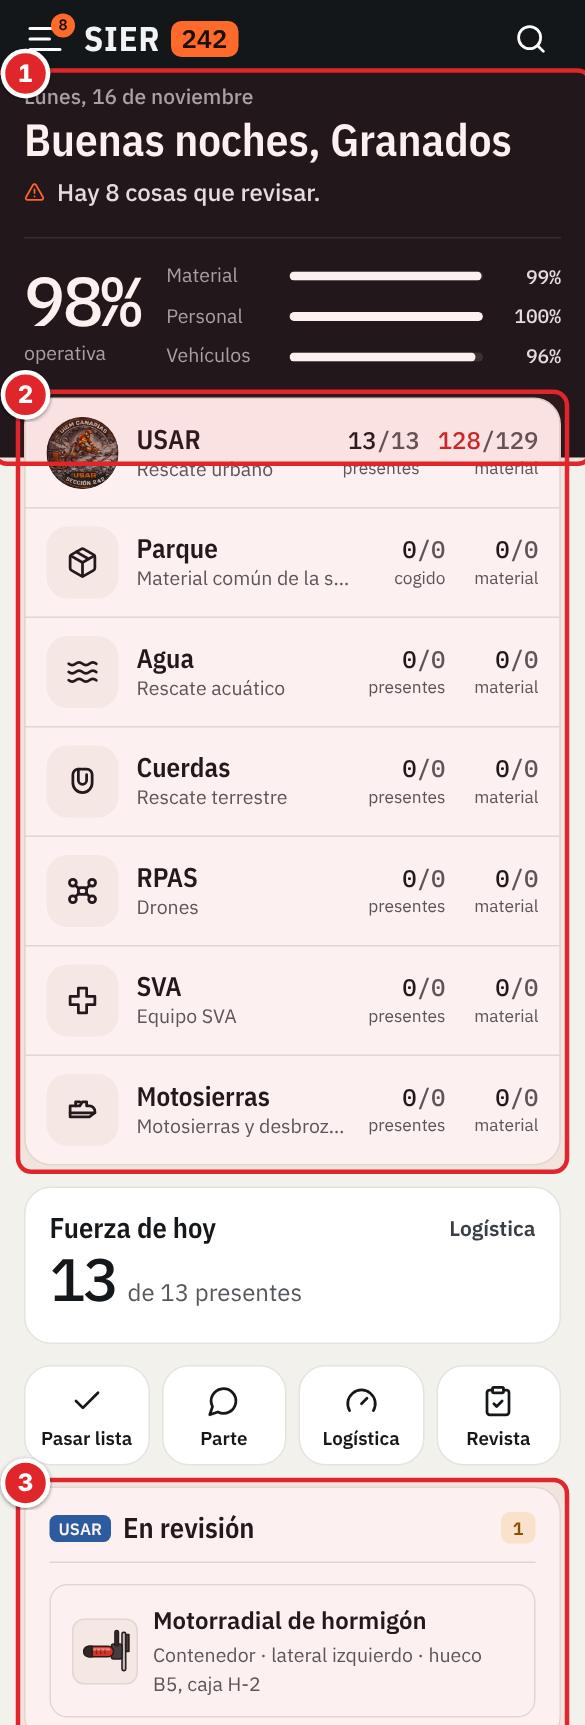
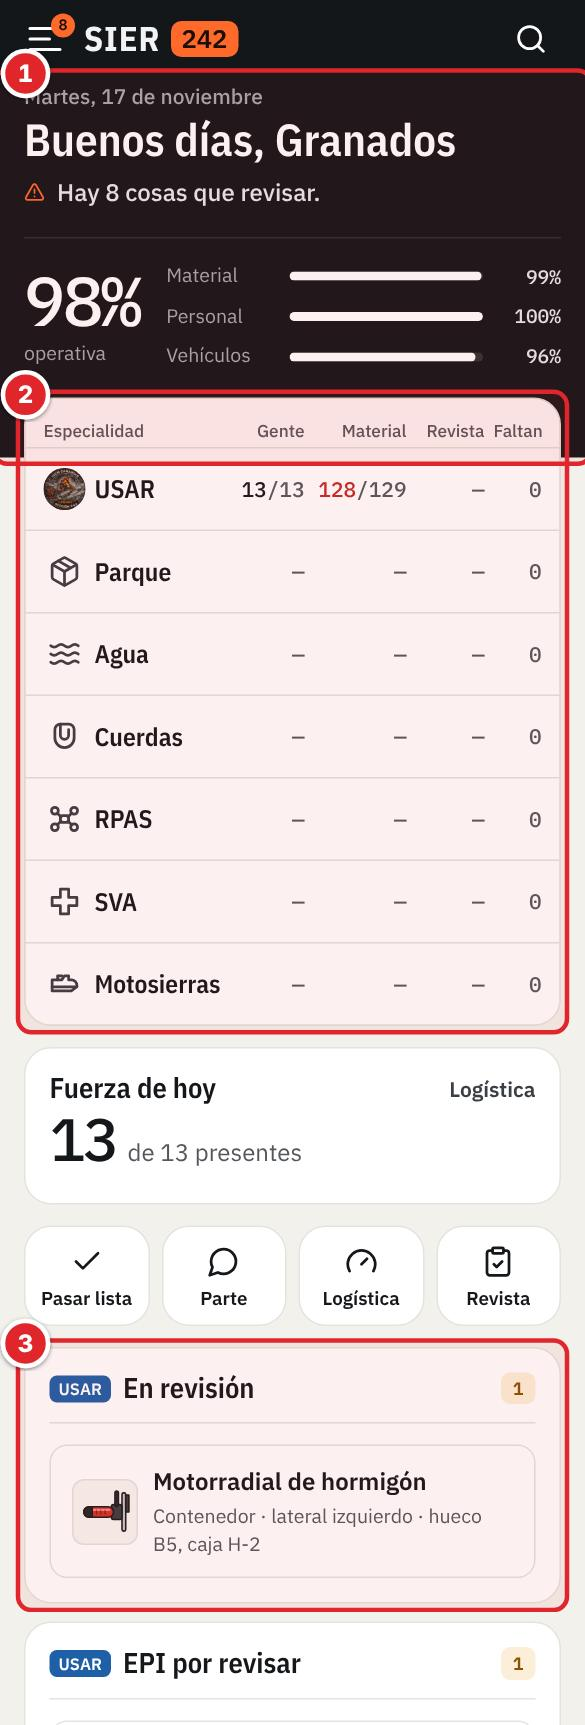
Ver cómo está todo de un vistazo: tabla de estado en Inicio, Logística por bloques y plano del Almacén
- Inicio: las tarjetas de especialidad pasan a ser una tabla, con una fila por especialidad y cuatro datos alineados
  (gente, material, revista y lo que falta). Solo lleva color lo que hay que atender.
- Logística: resumen arriba con cuatro cifras (Personal, Material, Vehículos y Pendiente) que llevan a su bloque, y los
  paneles agrupados bajo tres títulos: Personal, Vehículos y almacén, y Material. En pantalla ancha se reparten en
  columnas sin dejar huecos.
- Almacén: los botones de pasillo son ahora un plano, con cada pasillo, su dueño y una barra por estantería que dice
  lo llena que está.
- Manual, capturas, CLAUDE.md y pruebas. Caché v103.

Claude-Session: https://claude.ai/code/session_0118nn5FfTdWCTcZrqft7Q7P

diff --git a/js/views/manual.js b/js/views/manual.js
@@ -33,8 +33,8 @@ const MANUAL = [
         img: ['entrar', 'Entrar con tu nombre y PIN', [[1, 'Toca tu nombre y luego pon tu PIN.'], [2, 'Quien entraba con correo puede seguir haciéndolo.']]] },
       { h: 'Instalar y compartir', steps: [ 'Instálala como una app: en Android, menú del navegador (⋮) → «Instalar aplicación»; en iPhone, botón Compartir → «Añadir a pantalla de inicio».',
         'Los datos del equipo se comparten solos en cuanto entras.'] },
-      { h: 'La pantalla de Inicio', p: 'Es el cuadro de mando del día. Arriba, sobre fondo oscuro, la fecha, cuántas cosas hay que revisar y la operatividad de la sección (la media de material operativo, personal presente y vehículos sin fallos ni ITV caducada, con una barra para cada cosa). Debajo, una tarjeta por especialidad o equipo (USAR, Agua, Cuerdas, RPAS, SVA y Motosierras) con los presentes y el material operativo: tócala para entrar en su apartado. Después, la «Fuerza de hoy» (presentes por pelotón) con cuatro accesos (Pasar lista, Parte, Logística y Revista), los avisos, los vencimientos (los 5 más urgentes; con «Ver los…» o eligiendo un plazo —30 días, 3 meses, 1 año o todo— sale la lista entera) y lo próximo del calendario. Para todo lo demás, el menú de tres rayas.',
-        img: ['inicio', 'Inicio', [[1, 'Saludo, cuántas cosas hay que revisar y la operatividad de la unidad.'], [2, 'Una tarjeta por especialidad o equipo: presentes y material operativo. Tócala para entrar.'], [3, 'Avisos, por tipo. Toca uno para ir a su ficha.']]] },
+      { h: 'La pantalla de Inicio', p: 'Es el cuadro de mando del día. Arriba, sobre fondo oscuro, la fecha, cuántas cosas hay que revisar y la operatividad de la sección (la media de material operativo, personal presente y vehículos sin fallos ni ITV caducada, con una barra para cada cosa). Debajo, una tabla con una fila por especialidad o equipo (USAR, Parque, Agua, Cuerdas, RPAS, SVA y Motosierras) y cuatro datos: «Gente» (presentes del total), «Material» (operativo del total), «Revista» (cuándo fue la última, o «toca» si ya hay que pasarla) y «Faltan» (necesidades abiertas). Solo lleva color lo que hay que atender, así que de un vistazo se ve cómo está todo; toca una fila para entrar en su apartado. Después, la «Fuerza de hoy» (presentes por pelotón) con cuatro accesos (Pasar lista, Parte, Logística y Revista), los avisos, los vencimientos (los 5 más urgentes; con «Ver los…» o eligiendo un plazo —30 días, 3 meses, 1 año o todo— sale la lista entera) y lo próximo del calendario. Para todo lo demás, el menú de tres rayas.',
+        img: ['inicio', 'Inicio', [[1, 'Saludo, cuántas cosas hay que revisar y la operatividad de la unidad.'], [2, 'Una fila por especialidad: gente, material, revista y lo que falta. Tócala para entrar.'], [3, 'Avisos, por tipo. Toca uno para ir a su ficha.']]] },
       { h: 'Avisos', p: 'En Inicio salen los avisos: equipos averiados o en revisión, material con novedad, mantenimientos y caducidades de los próximos 30 días, stock por debajo del mínimo, material fuera del contenedor y documentos de las personas. Toca cualquiera para ir a su ficha.' }
     ],
     example: 'Llegas al parque: entras como GRANADOS y en Inicio ves que la sierra de hormigón está en revisión y que el pasaporte de DORTA caduca en 4 meses.',
@@ -151,9 +151,9 @@ const MANUAL = [
     tips: ['Los vehículos y su material los rellena cualquiera del equipo.', 'El material de un vehículo tiene lo mismo que el de un apartado: foto, caducidad, historial, etiquetas QR, inventario para imprimir o para Excel y aviso para pasar revista (ver «Apartados»).', 'Si un modelo deja de usarse, ábrelo → «Editar modelo y matrículas» → «Eliminar».'] },
 
   { id: 'logistica', area: 'log', icon: 'gauge', title: 'Logística: lo disponible de personal, vehículos y material', go: 'recursos',
-    what: 'Una sola pantalla para saber con qué se cuenta: cuánta gente hay presente (hoy o el día que elijas), por pelotón y por capacidad, qué matrículas están disponibles y cómo está el material. Cada línea lleva a su sitio.',
+    what: 'Una sola pantalla para saber con qué se cuenta: cuánta gente hay presente (hoy o el día que elijas), por pelotón y por capacidad, qué matrículas están disponibles y cómo está el material. Arriba, un resumen con cuatro cifras (Personal, Material, Vehículos y Pendiente): toca una para bajar a su bloque. Debajo, los paneles van agrupados en tres bloques con su título: Personal, Vehículos y almacén, y Material. Cada línea lleva a su sitio.',
     parts: [
-      { h: 'Personal y capacidades', p: '«Personal» dice cuántos hay presentes del total, con una barra por pelotón (en ámbar si falta gente y en rojo si falta más de un cuarto) y la lista de ausentes con su motivo y hasta cuándo. «Capacidades» cuenta los presentes de cada especialidad (USAR, Res. Terrestre, Res. Acuático) y de cada equipo (RPAS, SVA y motosierristas titulares, con los suplentes disponibles). Toca una barra para abrir su apartado.',
+      { h: 'Personal y capacidades', p: '«Presentes» dice cuántos hay del total, con una barra por pelotón (en ámbar si falta gente y en rojo si falta más de un cuarto) y la lista de ausentes con su motivo y hasta cuándo. «Capacidades» cuenta los presentes de cada especialidad (USAR, Res. Terrestre, Res. Acuático) y de cada equipo (RPAS, SVA y motosierristas titulares, con los suplentes disponibles). Toca una barra para abrir su apartado.',
         img: ['logistica', 'Logística', [[1, 'Elegir otro día para ver con quién se contará.'], [2, 'Presentes del total y por pelotón.'], [3, 'Pasar lista y enviar el parte.']]] },
       { h: 'Ver otro día', steps: ['Arriba, en «Ver el día», elige una fecha futura.', 'Personal y Capacidades se calculan para ese día con las ausencias apuntadas (las que ya han empezado y las previstas).', '«Próximos cambios» lista quién vuelve en los próximos días, las ausencias previstas (vacaciones, permisos, cursos…) y, si se han puesto mínimos, los días en que una especialidad se queda por debajo. «Hoy» vuelve al día de hoy.'] },
       { h: 'Pasar lista', steps: ['«Pasar lista» (también en Inicio): sale toda la sección por pelotones.', 'Elige arriba el motivo y toca a quien falte: su ficha se pone en rojo. Tócalo otra vez y vuelve a estar presente.', 'Arriba se ve la cuenta de presentes; «Enviar el parte» lo manda por WhatsApp.'] },
@@ -166,8 +166,8 @@ const MANUAL = [
   { id: 'almacen-pasillos', area: 'log', icon: 'layers', title: 'Almacén: todos los pasillos y mover material', go: 'almacen',
     what: 'Menú → Almacén reúne todos los pasillos: el Parque (1 y 2), USAR (3), Agua (4), Cuerdas (5) y Motosierras (6), cada uno con su estantería a izquierda y derecha. En cada hueco se ve lo que hay, sea de quien sea: el material de un apartado lleva su icono, y lo de USAR, su dibujo o su caja. Cualquier cosa se puede llevar a cualquier sitio: a otro hueco, a otro pasillo, al contenedor, a un armario o a un vehículo.',
     parts: [
-      { h: 'Ver un pasillo', steps: ['Arriba, un botón por pasillo con su número, de quién es y cuántas cosas tiene; debajo, «Izquierda» y «Derecha».', 'Toca un hueco: sale lo que hay, con «Mover» en cada cosa, «Material aquí» para añadir (si el pasillo es de varios, pregunta de quién es) y, debajo, lo que está sin colocar para traerlo con un toque.', '«Módulos y baldas» cambia lo que mide el lado que estás viendo; «De quién es cada pasillo», qué especialidad hay en cada uno.'],
-        img: ['almacen', 'El Almacén', [[1, 'Un botón por pasillo, con su dueño.'], [2, 'Lado izquierdo o derecho.'], [3, 'La estantería: toca un hueco o arrastra lo que hay en él.']]] },
+      { h: 'Ver un pasillo', steps: ['Arriba, el plano del almacén: un recuadro por pasillo con su número, de quién es y cuántas cosas tiene, y a cada lado una barra que dice lo llena que está esa estantería. Tócalo para verlo; debajo, «Izquierda» y «Derecha».', 'Toca un hueco: sale lo que hay, con «Mover» en cada cosa, «Material aquí» para añadir (si el pasillo es de varios, pregunta de quién es) y, debajo, lo que está sin colocar para traerlo con un toque.', '«Módulos y baldas» cambia lo que mide el lado que estás viendo; «De quién es cada pasillo», qué especialidad hay en cada uno.'],
+        img: ['almacen', 'El Almacén', [[1, 'El plano: cada pasillo con su dueño y lo llenas que están sus dos estanterías.'], [2, 'Lado izquierdo o derecho.'], [3, 'La estantería: toca un hueco o arrastra lo que hay en él.']]] },
       { h: 'Arrastrar', steps: ['Mantén pulsado un material (con el ratón, arrástralo sin más) y llévalo a otro hueco.', 'Para pasarlo a otro pasillo o al otro lado, déjalo un momento encima de su botón: el dibujo cambia y lo sueltas allí.', 'Abajo sale una barra para dejarlo «Sin colocar» o dárselo a una persona.', 'Al soltar, el hueco de destino se ilumina y sale el aviso con «Deshacer».'] },
       { h: 'Mover sin arrastrar', p: 'En la ficha de cualquier material, equipo o caja, «Mover» abre una ventana con cuatro destinos: Pasillo (eliges pasillo y lado y tocas el hueco en el dibujo), Contenedor (los huecos B1 a B20), Vehículo y Armarios. Arriba dice dónde está ahora. Sirve igual para lo de USAR que para lo de un apartado o lo de un vehículo.',
         img: ['mover', 'Mover un material', [[1, 'Dónde está ahora.'], [2, 'A dónde: pasillo, contenedor, vehículo o armarios.'], [3, 'Toca el hueco donde lo dejas.']]] },

diff --git a/styles.css b/styles.css
@@ -2140,20 +2140,6 @@ body.mision .mlayout > .tabs .tab .n { background: rgba(255, 255, 255, .14); col
 body { transition: none; }
 
 /* ---------- Inicio: una tarjeta por especialidad o equipo ---------- */
-.esp-tiles { display: grid; gap: 1px; background: var(--line); border: 1px solid var(--line); border-radius: var(--r); overflow: hidden; }
-@media (min-width: 900px) { .esp-tiles { grid-template-columns: repeat(2, 1fr); } }
-@media (min-width: 1440px) { .esp-tiles { grid-template-columns: repeat(3, 1fr); } }
-.esp-tile { display: grid; grid-template-columns: 48px minmax(0, 1fr) auto auto; gap: 12px; align-items: center; padding: 12px 14px; min-height: 72px; text-align: left; background: var(--surface); }
-@media (hover: hover) and (pointer: fine) { .esp-tile:hover { background: var(--sunk); } }
-.esp-art { width: 48px; height: 48px; border-radius: 14px; display: grid; place-items: center; background: var(--sunk); color: var(--ink); object-fit: cover; }
-img.esp-art { border-radius: 50%; background: var(--frame); }
-.esp-t b { display: block; font: 600 18px/1.2 var(--cond); }
-.esp-t small { color: var(--muted); overflow: hidden; text-overflow: ellipsis; white-space: nowrap; }
-.esp-n { text-align: right; min-width: 50px; }
-.esp-n b { display: block; font: 500 16px/1.3 var(--num); }
-.esp-n b i { font-style: normal; color: var(--muted); }
-.esp-n small { font-size: 11.5px; color: var(--muted); }
-.esp-n.bad b { color: var(--bad); }
 .veh-mat { margin-top: 16px; padding-top: 14px; border-top: 1px solid var(--line); }
 .veh-mat .sec-head { border-bottom: 0; padding-bottom: 0; margin-bottom: 10px; }
 /* Textos largos (empleo, motivo de ausencia, pelotón): se cortan con puntos suspensivos en vez de ensanchar la página */
@@ -2329,6 +2315,55 @@ p, small, .muted { text-wrap: pretty; }
 .empty-i { width: auto; height: auto; background: none; border: 0; border-radius: 0; margin-bottom: 2px; color: var(--muted); }
 .empty-i svg { width: 22px; height: 22px; }
 /* Inicio: si el número de apartados es impar en dos columnas, el último ocupa la fila entera (sin casilla huérfana) */
-@media (min-width: 900px) { .esp-tiles > :last-child:nth-child(odd) { grid-column: 1 / -1; } }
 .alm-tools .alm-alpas { margin-right: auto; }
 @media (prefers-reduced-motion: reduce) { .ctab.on.slide::after, .seg-row button.on.slide::before, .cell-flash { animation: none !important; } }
+
+/* ==================== ORGANIZACIÓN: ver cómo está todo de un vistazo ==================== */
+/* Inicio: tabla de estado, una fila por especialidad y cuatro datos alineados (gente, material, revista y lo que falta) */
+.esp-tiles { display: grid; gap: 1px; background: var(--line); border: 1px solid var(--line); border-radius: var(--r); overflow: hidden; }
+.esp-head, .esp-tile { display: grid; grid-template-columns: 28px minmax(0, 1fr) 46px 62px 46px 32px; gap: 6px; align-items: center; padding: 0 12px; background: var(--surface); }
+.esp-head { min-height: 32px; font-size: 11.5px; font-weight: 500; color: var(--muted); }
+.esp-head span { text-align: right; white-space: nowrap; } .esp-head .esp-h-n { text-align: left; grid-column: 1 / 3; }
+.esp-tile { min-height: 54px; text-align: left; width: 100%; }
+.esp-art { width: 28px; height: 28px; border-radius: 8px; display: grid; place-items: center; background: none; color: var(--ic); object-fit: cover; }
+.esp-art svg { width: 22px; height: 22px; }
+img.esp-art { border-radius: 50%; background: var(--frame); }
+.esp-t { min-width: 0; display: flex; align-items: baseline; gap: 8px; }
+.esp-t b { font: 600 17px/1.2 var(--cond); white-space: nowrap; overflow: hidden; text-overflow: ellipsis; }
+.esp-t small { display: none; color: var(--muted); font-size: 13px; overflow: hidden; text-overflow: ellipsis; white-space: nowrap; min-width: 0; }
+.esp-c { text-align: right; font: 500 14px var(--num); white-space: nowrap; font-variant-numeric: tabular-nums; color: var(--ink); }
+.esp-c i { font-style: normal; color: var(--muted); }
+.esp-c.bad { color: var(--bad); } .esp-c.warn { color: var(--warn); font-weight: 600; } .esp-c.nada { color: var(--muted); }
+.esp-c.txt { font: 600 13px var(--sans); }
+@media (min-width: 700px) {
+  .esp-head, .esp-tile { grid-template-columns: 34px minmax(0, 1fr) 84px 96px 84px 64px; gap: 12px; padding: 0 16px; }
+  .esp-art { width: 34px; height: 34px; } .esp-t small { display: block; } .esp-c { font-size: 15px; } .esp-head { font-size: 12.5px; }
+}
+/* Logística: resumen arriba (lleva a cada bloque) y los paneles agrupados bajo su título */
+.log-res { grid-template-columns: repeat(4, 1fr); margin-top: 14px; }
+.log-res .sier-kpi { text-align: left; background: var(--surface); min-width: 0; transition: background-color var(--t-hover) ease; }
+.log-res .sier-kpi b { font: 500 24px/1.1 var(--num); letter-spacing: -.5px; white-space: nowrap; }
+.log-res .sier-kpi small { font-weight: 500; }
+@media (hover: hover) and (pointer: fine) { .log-res .sier-kpi:hover { background: var(--sunk); } }
+@media (max-width: 479px) { .log-res { grid-template-columns: repeat(2, 1fr); } .log-res .sier-kpi:nth-child(3) { border-left: 0; } .log-res .sier-kpi:nth-child(n+3) { border-top: 1px solid var(--line); } }
+.log-sec { scroll-margin-top: calc(var(--top-h, 67px) + 10px); margin-top: 22px; }
+.log-sec-t { display: flex; align-items: baseline; gap: 10px; flex-wrap: wrap; margin: 0 4px 10px; }
+.log-sec-t h2 { font: 600 21px/1.2 var(--cond); }
+.log-sec-t p { font-size: 13.5px; }
+/* En pantalla ancha los paneles de cada bloque se reparten en columnas, uno debajo de otro, sin dejar huecos */
+@media (min-width: 900px) { .log-sec .log-grid { display: block; columns: 2; column-gap: 14px; } .log-sec .log-grid > .panel { break-inside: avoid; margin: 0 0 14px; } }
+@media (min-width: 1500px) { .log-sec .log-grid { columns: 3; } }
+/* Almacén: plano de los pasillos. Cada uno, con su estantería a izquierda y derecha, llena hasta donde esté ocupada */
+.plano { display: grid; grid-template-columns: repeat(auto-fill, minmax(96px, 1fr)); gap: 8px; margin-bottom: 12px; }
+.plano .plano-p { display: grid; grid-template-columns: 6px minmax(0, 1fr) 6px; gap: 5px; align-items: stretch; min-height: 78px; padding: 7px; border-radius: 12px; text-align: center; }
+.plano-e { position: relative; border-radius: 3px; background: var(--sunk); box-shadow: inset 0 0 0 1px var(--line); overflow: hidden; }
+.plano-e i { position: absolute; left: 0; right: 0; bottom: 0; background: #2b5ea8; border-radius: 3px; min-height: 0; }
+.plano-c { display: grid; align-content: center; justify-items: center; gap: 1px; min-width: 0; }
+.plano-c b { font: 500 24px/1 var(--num); }
+.plano-c small { font-size: 11.5px; font-weight: 500; line-height: 1.2; overflow-wrap: anywhere; color: var(--muted); }
+.plano-c .muted { font: 500 11.5px var(--num); }
+.plano .chip.on .plano-c small, .plano .chip.on .plano-c .muted { color: inherit; }
+.plano .chip.on .plano-e { background: rgba(255, 255, 255, .14); box-shadow: none; }
+.plano .chip.on .plano-e i { background: var(--yellow); }
+.motion #view.enter .plano-e i { transform-origin: bottom center; animation: plano-sube .8s var(--ease) .1s both; }
+@keyframes plano-sube { from { transform: scaleY(0); } }

diff --git a/js/views/logistica.js b/js/views/logistica.js
@@ -47,6 +47,11 @@ function viewLogistica() {
   const flota = flotaEstado(), libres = flota.filter(x => x.libre), plazas = libres.reduce((s, x) => s + (+x.v.seats || 0), 0);
   const a = alerts(), gear = list('gear'), okGear = gear.filter(g => g.status === 'OPERATIVO').length;
   const exp = expiries(), venc = exp.filter(x => daysTo(x.date) <= 30).length, cargos = cargosPorPersona();
+  // Resumen: material operativo de toda la sección (USAR, apartados y vehículos) y lo que hay pendiente de atender
+  const matTot = matTodo(), matOkN = okGear + matTot.filter(matOk).length, matN = gear.length + matTot.length;
+  const pend = revs.length + nec.length + a.low.length + flota.filter(x => !x.libre).length;
+  const kpi = (id, label, valor, cls = '') => `<button class="sier-kpi ${cls}" onclick="document.getElementById('log-${id}')?.scrollIntoView({ behavior: motion() ? 'smooth' : 'auto', block: 'start' })"><small>${label}</small><b>${valor}</b></button>`;
+  const sec = (id, titulo, sub, paneles) => `<section class="log-sec" id="log-${id}" aria-label="${titulo}"><div class="log-sec-t"><h2>${titulo}</h2><p class="muted">${sub}</p></div><div class="log-grid">${paneles}</div></section>`;
   const diaTxt = esHoy ? 'hoy' : 'el ' + new Date(dia + 'T00:00').toLocaleDateString('es-ES', { weekday: 'long', day: 'numeric', month: 'long' });
 
   return `
@@ -54,10 +59,16 @@ function viewLogistica() {
       <div class="log-head"><div><h2>Logística</h2><p class="muted">Lo disponible ${esc(diaTxt)} en la ${UNIDAD}.</p></div>
         <div class="row"><label class="lbl">Ver el día<input class="input" type="date" min="${hoy}" value="${dia}" onchange="setPref({ logDia: this.value > todayISO() ? this.value : '' })"></label>
           ${esHoy ? '' : `<button class="btn btn-g" style="align-self:flex-end" onclick="setPref({ logDia: '' })">Hoy</button>`}</div></div>
+      <div class="sier-res log-res" role="group" aria-label="Resumen">
+        ${kpi('personal', 'Personal', `${pres.length}<span class="ap-de">/${ops.length}</span>`, logCls(pres.length, ops.length) === 'bad' ? 'bad' : '')}
+        ${kpi('material', 'Material', `${matOkN}<span class="ap-de">/${matN}</span>`, matOkN < matN ? 'bad' : '')}
+        ${kpi('flota', 'Vehículos', `${libres.length}<span class="ap-de">/${flota.length}</span>`, logCls(libres.length, flota.length) === 'bad' ? 'bad' : '')}
+        ${kpi('material', 'Pendiente', pend, '')}
+      </div>
     </div>
-    <div class="log-grid">
+    ${sec('personal', 'Personal', `Quién hay ${esc(diaTxt)} y qué capacidades suman.`, `
       <div class="panel">
-        <div class="between"><h3>Personal</h3><button class="link" onclick="${irPers('peloton')}">Ver todos</button></div>
+        <div class="between"><h3>Presentes</h3><button class="link" onclick="${irPers('peloton')}">Ver todos</button></div>
         <div class="log-fig ${logCls(pres.length, ops.length)}"><b>${pres.length}</b><span>de ${ops.length} presentes ${esc(diaTxt)}</span></div>
         ${PELOTONES.filter(k => ops.some(o => o.peloton === k)).map(k => logMeter(k, ...cuenta(o => o.peloton === k), irPers('peloton'))).join('')}
         ${ops.some(o => !o.peloton) && ops.some(o => o.peloton) ? logMeter('Sin pelotón', ...cuenta(o => !o.peloton), irPers('peloton')) : ''}
@@ -76,7 +87,8 @@ function viewLogistica() {
         <div class="log-rows">${[...new Map(bajo.map(b => [b.grupo, b])).values()].map(b => logRow(`${b.grupo} baja del mínimo`, `el ${fmtDate(b.dia)}`, 'bad', "setPref({ tab: 'personal', person: null, pview: 'cuadrante' }); scrollTo(0, 0)", ` ${b.n} de ${b.min}${bajo.filter(x => x.grupo === b.grupo).length > 1 ? ` · ${bajo.filter(x => x.grupo === b.grupo).length} días en 30` : ''}`)).join('')}
           ${vuelven.map(o => logRow(conEmpleo(o), 'vuelve el ' + fmtDate(new Date(new Date(ausDe(o, dia).hasta + 'T12:00').getTime() + 864e5).toISOString().slice(0, 10)), '', `openPerson('${o.id}')`, ' ' + (ausDe(o, dia).motivo || ''))).join('')}
           ${previstas.map(([o, a]) => logRow(conEmpleo(o), 'desde el ' + fmtDate(a.desde), 'warn', `planDe('${o.id}')`, ' ' + (a.motivo || 'Ausencia') + (a.hasta ? ' hasta el ' + fmtDate(a.hasta) : ''))).join('')}</div>
-      </div>` : ''}
+      </div>` : ''}`)}
+    ${sec('flota', 'Vehículos y almacén', 'Las matrículas disponibles y qué hay en cada pasillo.', `
       <div class="panel">
         <div class="between"><h3>Vehículos</h3><button class="link" onclick="go('vehiculos')">Flota</button></div>
         ${flota.length ? `<div class="log-fig ${logCls(libres.length, flota.length)}"><b>${libres.length}</b><span>de ${flota.length} matrículas disponibles${plazas ? ` · ${plazas} plazas` : ''}</span></div>
@@ -86,8 +98,10 @@ function viewLogistica() {
           ${logRow('ITV en los próximos 30 días', flota.filter(x => x.u.itv && daysTo(x.u.itv) >= 0 && daysTo(x.u.itv) <= 30).length, '', "go('vehiculos')")}
         </div>` : `<p class="muted">Aún no hay matrículas apuntadas en los vehículos.</p>`}
       </div>
+      ${almacenPanel()}`)}
+    ${sec('material', 'Material', 'Cómo está el de USAR y el de cada especialidad y vehículo, y lo que falta.', `
       <div class="panel">
-        <div class="between"><h3>Material de USAR</h3><button class="link" onclick="go('contenedor')">Almacén</button></div>
+        <div class="between"><h3>Material de USAR</h3><button class="link" onclick="go('contenedor')">Contenedor</button></div>
         <div class="log-fig ${logCls(okGear, gear.length)}"><b>${okGear}</b><span>de ${gear.length} equipos operativos</span></div>
         <div class="log-rows">
           ${logRow('Prestado a personas', a.out.length, '', "go('fuera')")}
@@ -106,12 +120,10 @@ function viewLogistica() {
         <div class="log-rows">${revs.map(([o]) => logRow(duenoNombre(o), 'toca', 'warn', matIr(duenoDe(o)), ' ' + (REV_CADA.find(r => r[0] === revCada(o))?.[1].toLowerCase() || ''))).join('')}</div>
       </div>` : ''}
       <div class="panel">${needsBloque('')}</div>
-      ${almacenPanel()}
       ${cargos.length ? `<div class="panel">
         <div class="between"><h3>Quién tiene material</h3><button class="link" onclick="go('fuera')">Fuera</button></div>
         <div class="log-rows">${cargos.map(([who, gs]) => logRow(who, gs.length + (gs.length === 1 ? ' equipo' : ' equipos'), '', operators().find(o => o.name === who) ? `setPref({ tab: 'personal', person: '${operators().find(o => o.name === who)?.id}', ptab: 'mat' }); scrollTo(0, 0)` : "go('fuera')", ' ' + gs.slice(0, 2).map(g => g.name).join(', ') + (gs.length > 2 ? '…' : ''))).join('')}</div>
-      </div>` : ''}
-    </div>`;
+      </div>` : ''}`)}`;
 }
 
 /* ---------- Pasar lista ---------- */

diff --git a/js/ui.js b/js/ui.js
@@ -271,14 +271,23 @@ function viewAvisos() {
 }
 
 // Inicio: una tarjeta por especialidad o equipo, con su icono, los presentes y el material operativo
+// Inicio: cómo está cada especialidad, en una tabla. Una fila por especialidad y cuatro datos alineados: gente presente,
+// material operativo, la revista (cuándo fue la última, o si toca) y cuántas necesidades tiene abiertas. Solo lleva
+// color lo que hay que atender.
 function espTiles() {
-  const fig = (n, t, label, bad) => `<span class="esp-n ${bad ? 'bad' : ''}"><b>${n}<i>/${t}</i></b><small>${label}</small></span>`;
-  // gente: los del apartado; null si es común (el Parque), que enseña cuánto de lo suyo tiene alguien
-  const tile = (onclick, art, name, sub, gente, mat) => `<button class="esp-tile" onclick="${onclick}">${art}<span class="esp-t"><b>${esc(name)}</b><small>${esc(sub)}</small></span>
-    ${gente ? fig(gente.filter(o => !esAusente(o)).length, gente.length, 'presentes', false) : fig(mat.filter(m => m.holder && get('operators', m.holder)).length, mat.length, 'cogido', false)}${fig(mat.filter(matOk).length, mat.length, 'material', mat.some(m => !matOk(m)))}</button>`;
-  return `<div class="esp-tiles">
-    ${tile("go('contenedor')", '<img class="esp-art" src="img/logo.webp" alt="">', 'USAR', 'Rescate urbano', usarOps(), list('gear'))}
-    ${Object.entries(APARTADOS).map(([k, ap]) => tile(`go('${k}')`, ESP_ART.includes(k) ? `<img class="esp-art" src="img/esp/${k}.webp" alt="">` : `<span class="esp-art">${ic(ap.icon, 'i-lg')}</span>`, ap.name, ap.largo, ap.comun ? null : apMiembros(k), apVivo(k))).join('')}
+  const corta = ts => new Date(ts).toLocaleDateString('es-ES', { day: 'numeric', month: 'numeric' });
+  const cel = (label, txt, cls = '') => `<span class="esp-c ${cls}"><span class="sr-only">${label} </span>${txt}</span>`;
+  const frac = (label, n, t, bad) => t ? cel(label, `${n}<i>/${t}</i>`, bad ? 'bad' : '') : cel(label, '—', 'nada');
+  // gente: los del apartado (null en el Parque, que es de todos); rev: [texto, clase]; nec: necesidades abiertas
+  const fila = (onclick, art, name, sub, gente, mat, rev, nec) => `<button class="esp-tile" onclick="${onclick}">${art}<span class="esp-t"><b>${esc(name)}</b><small>${esc(sub)}</small></span>
+    ${gente ? frac('Gente', gente.filter(o => !esAusente(o)).length, gente.length, gente.length && gente.filter(o => !esAusente(o)).length / gente.length < .75) : cel('Gente', '—', 'nada')}
+    ${frac('Material', mat.filter(matOk).length, mat.length, mat.some(m => !matOk(m)))}${cel('Revista', rev[0], rev[1])}${cel('Faltan', nec, nec ? 'warn' : 'nada')}</button>`;
+  const tU = r => +(r.date || r.ts) || 0, uU = list('inspections').sort((x, y) => tU(y) - tU(x))[0];
+  const revAp = k => { const f = revFalta('ap:' + k), u = apRevistas(k)[0]; return f != null && f <= 0 ? ['toca', 'warn txt'] : u ? [corta(u.ts), ''] : ['—', 'nada']; };
+  return `<div class="esp-tiles" role="group" aria-label="Estado de cada especialidad">
+    <div class="esp-head" aria-hidden="true"><span></span><span class="esp-h-n">Especialidad</span><span>Gente</span><span>Material</span><span>Revista</span><span>Faltan</span></div>
+    ${fila("go('contenedor')", '<img class="esp-art" src="img/logo.webp" alt="">', 'USAR', 'Rescate urbano', usarOps(), list('gear').map(g => ({ status: g.status })), prefs.draft ? ['abierta', 'warn txt'] : uU && tU(uU) ? [corta(tU(uU)), ''] : ['—', 'nada'], needsAbiertas('usar').length)}
+    ${Object.entries(APARTADOS).map(([k, ap]) => fila(`go('${k}')`, ESP_ART.includes(k) ? `<img class="esp-art" src="img/esp/${k}.webp" alt="">` : `<span class="esp-art">${ic(ap.icon)}</span>`, ap.name, ap.largo, ap.comun ? null : apMiembros(k), apVivo(k), revAp(k), needsAbiertas(k).length)).join('')}
   </div>`;
 }
 

diff --git a/js/views/pasillo.js b/js/views/pasillo.js
@@ -85,10 +85,16 @@ function pasDibujo(pas, lado, ix) {
   </div></div>`;
 }
 // Botones de pasillo y de lado. Al arrastrar algo por encima de uno (data-hop), se cambia a él para soltarlo allí.
+// Cuánto de un lado está ocupado: huecos con algo, del total de huecos de ese lado (0 a 1)
+const pasOcupa = (ix, pas, lado) => { const g = pasGeo(pas, lado); return Object.keys(ix).filter(d => { const u = pasDe(d); return u.pas === pas && u.lado === lado && pasVale(d); }).length / (g.mods * (g.baldas + 1)); };
 function pasSelector(nums, pas, lado, ix, k) {
   const hop = o => esc(JSON.stringify(o)), pref = n => k ? { pasN: { ...prefs.pasN, [k]: n } } : { almPas: n };
-  return `${nums.length > 1 ? `<div class="row chips pas-chips" role="group" aria-label="Pasillo">${nums.map(n => { const ds = pasDuenos(n).map(pasDuenoTxt).join(' y '), c = pasCuenta(ix, n);
-      return `<button class="chip ${n === pas ? 'on' : ''}" aria-pressed="${n === pas}" data-hop="${hop(pref(n))}" onclick="setPref(${hop(pref(n))})">${k ? 'Pasillo ' : ''}<b>${n}</b>${k ? '' : ds ? ' ' + esc(ds) : ' Libre'}${c ? ` <span class="muted">${c}</span>` : ''}</button>`; }).join('')}</div>` : ''}
+  // En el Almacén, los pasillos se ven como en un plano: cada uno con su estantería a izquierda y derecha, tan llenas
+  // como estén. En un apartado, solo sus pasillos, en botones sencillos.
+  const plano = n => { const ds = pasDuenos(n).map(pasDuenoTxt).join(' y '), c = pasCuenta(ix, n), e = l => `<span class="plano-e" aria-hidden="true"><i style="height:${Math.round(pasOcupa(ix, n, l) * 100)}%"></i></span>`;
+    return `<button class="chip plano-p ${n === pas ? 'on' : ''}" aria-pressed="${n === pas}" data-hop="${hop(pref(n))}" onclick="setPref(${hop(pref(n))})">${e('I')}<span class="plano-c"><b>${n}</b><small>${esc(ds || 'Libre')}</small>${c ? `<span class="muted">${c}</span>` : ''}</span>${e('D')}</button>`; };
+  const boton = n => { const c = pasCuenta(ix, n); return `<button class="chip ${n === pas ? 'on' : ''}" aria-pressed="${n === pas}" data-hop="${hop(pref(n))}" onclick="setPref(${hop(pref(n))})">Pasillo <b>${n}</b>${c ? ` <span class="muted">${c}</span>` : ''}</button>`; };
+  return `${nums.length > 1 ? `<div class="${k ? 'row chips' : 'plano'} pas-chips" role="group" aria-label="Pasillo">${nums.map(k ? boton : plano).join('')}</div>` : ''}
     <div class="seg-row" role="group" aria-label="Lado del pasillo">${Object.entries(LADOS).map(([l, t]) => { const c = pasCuenta(ix, pas, l);
       return `<button class="${l === lado ? 'on' : ''}" aria-pressed="${l === lado}" data-hop="${hop({ pasLado: l })}" onclick="setPref({ pasLado: '${l}' })">${t}<small>${c} ${c === 1 ? 'cosa' : 'cosas'}</small></button>`; }).join('')}</div>`;
 }
@@ -104,7 +110,7 @@ function viewAlmacen() {
     ...Object.keys(APARTADOS).filter(k => !apPasillos(k).length).map(k => [APARTADOS[k].icon, APARTADOS[k].name, 'Sin pasillo: su material, en su apartado', `setPref({ tab: '${k}', aptab: 'material' }); scrollTo(0, 0)`])];
   return `
     <div class="panel alm-top">
-      <div class="between wrap-row sec-head"><div><h2>Almacén</h2><p class="muted">Todos los pasillos, con lo que hay en cada hueco, sea de quien sea.</p></div>
+      <div class="between wrap-row sec-head"><div><h2>Almacén</h2><p class="muted">Todos los pasillos y lo que hay en cada hueco, sea de quien sea. Las barras del plano dicen lo llena que está cada estantería.</p></div>
         <button class="btn btn-g btn-sm" onclick="almacenForm()">${ic('sliders')} De quién es cada pasillo</button></div>
       ${pasSelector(nums, pas, lado, ix)}
     </div>

diff --git a/sw.js b/sw.js
@@ -1,6 +1,6 @@
 // Permite usar la app sin conexión.
 // Con conexión siempre se descarga la última versión; la copia guardada solo se usa sin red.
-const CACHE = 'usar242-v102';
+const CACHE = 'usar242-v103';
 const FILES = ['./', 'index.html', 'styles.css', 'qr.js', 'manifest.webmanifest', 'icon.svg', 'icon-180.png', 'icon-192.png', 'icon-512.png', 'icon-any-192.png', 'icon-any-512.png', 'icon-mono-512.png', 'img/contenedor-lateral.webp', 'img/mantenimiento.webp', 'img/logo.webp', 'img/veh/v-ab.webp', 'img/veh/v-ab-cont.webp', 'img/veh/v-ab-cont2.webp', 'img/veh/v-atb-m1.webp', 'img/veh/v-atb-m2.webp', 'img/veh/v-ab-lcif.webp', 'img/veh/v-ab-chasis.webp', 'img/veh/v-sangyong.webp', 'img/veh/v-amarok.webp', 'img/veh/v-amb.webp', 'img/veh/v-cam-verde.webp', 'img/veh/v-cupra.webp', 'img/veh/v-guagua-g.webp', 'img/veh/v-guagua-p.webp', 'img/veh/v-vpi.webp', 'img/veh/v-rq-ge.webp',
   'js/nativo.js', 'js/config.js', 'js/icons.js', 'js/utils.js', 'js/pdf.js', 'js/data.js', 'js/metodo.js', 'js/sync.js', 'js/ui.js', 'js/sesion.js', 'js/areas.js', 'js/catalogos.js', 'js/marcaje.js', 'js/views/vehiculos.js', 'js/views/material.js', 'js/views/pasillo.js', 'js/views/necesidades.js', 'js/views/cuadrante.js', 'js/views/contenedor.js', 'js/views/cajas.js', 'js/views/revista.js', 'js/views/epi.js', 'js/views/guia.js', 'js/arcos.js', 'js/views/arcos.js', 'js/views/apuntalamientos.js', 'js/views/apucortes.js', 'js/views/apuguia.js', 'js/views/apuplantilla.js', 'js/views/apumontaje.js', 'js/views/despliegue.js', 'js/views/persona.js', 'js/views/sier.js', 'js/views/logistica.js', 'js/views/apartados.js', 'js/views/campo.js', 'js/views/calendario.js', 'js/views/manual.js', 'vendor/jsQR.js', 'js/views/puestos.js', 'js/views/stock.js', 'js/views/entregas.js', 'js/views/ajustes.js', 'js/main.js'];
 

diff --git a/tests/test_logistica.py b/tests/test_logistica.py
@@ -36,10 +36,18 @@ with sync_playwright() as p:
     # Inicio: saludo con el nombre, operatividad con sus tres barras, fuerza de hoy y accesos
     a.evaluate("go('avisos')"); a.wait_for_timeout(200)
     assert 'Granados' in a.inner_text('.hero .hello') and a.locator('.hero-bar').count() == 3 and a.locator('.hero-pct b').inner_text().endswith('%')
-    # Una tarjeta por especialidad o equipo: USAR con su emblema y sus 13; el resto con los suyos
+    # Tabla de estado: una fila por especialidad o equipo (USAR con su emblema y sus 13) y cuatro datos: gente, material, revista y lo que falta
     assert a.locator('.esp-tiles .esp-tile').count() == 7 and a.locator('.esp-tile >> nth=0').locator('img.esp-art').count() == 1
-    t = ' '.join(a.inner_text('.esp-tile >> nth=0').split()); assert t.startswith('USAR') and '13/13 presentes' in t and 'material' in t, t
-    t = ' '.join(a.inner_text('.esp-tile:has-text("Agua")').split()); assert '2/2 presentes' in t and '0/0 material' in t, t
+    assert [t.strip() for t in a.locator('.esp-head span').all_inner_texts() if t.strip()] == ['Especialidad', 'Gente', 'Material', 'Revista', 'Faltan']
+    t = ' '.join(a.inner_text('.esp-tile >> nth=0').split()); assert t.startswith('USAR') and 'Gente 13/13' in t and 'Material' in t and 'Faltan 0' in t, t
+    t = ' '.join(a.inner_text('.esp-tile:has-text("Agua")').split()); assert 'Gente 2/2' in t and 'Material —' in t and 'Revista —' in t, t
+    # Solo lleva color lo que hay que atender: material averiado, una revista que toca y una necesidad abierta
+    a.evaluate("apHabitual('agua'); (() => { const m = apMat('agua'); stamp('matesp', { ...m[0], status: 'AVERIADO' }); put('needs', { id: 'NE-T', ap: 'agua', text: 'Remos', qty: 2, state: 'falta', by: 'GRANADOS', ts: Date.now() }); revCadaSet('ap:agua', 30); })()"); a.wait_for_timeout(200)
+    t = ' '.join(a.inner_text('.esp-tile:has-text("Agua")').split()); n = a.evaluate("apMat('agua').length")
+    assert f'Material {n - 1}/{n}' in t and 'Revista toca' in t and 'Faltan 1' in t, t
+    assert a.locator('.esp-tile:has-text("Agua") .esp-c.bad').count() == 1 and a.locator('.esp-tile:has-text("Agua") .esp-c.warn').count() == 2 and a.locator('.esp-tile >> nth=0 >> .esp-c.bad, .esp-tile >> nth=0 >> .esp-c.warn').count() == 0
+    a.click('.esp-tile:has-text("Agua")'); a.wait_for_timeout(150); assert a.evaluate("prefs.tab") == 'agua'
+    a.evaluate("apMat('agua').forEach(m => stamp('matesp', { id: m.id, _del: true })); remove('needs', 'NE-T'); revCadaSet('ap:agua', 0); go('avisos')"); a.wait_for_timeout(200)
     f = a.inner_text('.panel:has(h3:text-is("Fuerza de hoy"))'); assert f'de {total} presentes' in f and 'PIEN 1' in f and '2/2' in f.replace('\n', ''), f
     assert a.locator('.dash-quick .dash-q').all_inner_texts() == ['Pasar lista', 'Parte', 'Logística', 'Revista']
     seen('inicio'); wide('inicio'); a.screenshot(path=f'{OUT}/logistica-inicio.png', full_page=True)
@@ -51,12 +59,20 @@ with sync_playwright() as p:
 
     # Logística hoy: todos presentes
     panel = lambda t: a.inner_text(f'#view .panel:has(h3:text-is("{t}"))').replace('\n', ' ')
-    assert f'{total} de {total} presentes hoy' in panel('Personal'), panel('Personal')
+    assert f'{total} de {total} presentes hoy' in panel('Presentes'), panel('Presentes')
     caps = panel('Capacidades')
     for x in ['USAR 13/13', 'Res. Terrestre 2/2', 'Res. Acuático 2/2', 'RPAS 1/1', 'SVA 2/2', 'Motosierristas + 1 de 1 suplentes 2/2']:
         assert x in ' '.join(caps.split()), (x, caps)
     assert 'matrículas disponibles' in panel('Vehículos') or 'Aún no hay matrículas' in panel('Vehículos')
     assert 'equipos operativos' in panel('Material de USAR') and 'Fungible bajo mínimo' in panel('Material de USAR')
+    # Arriba, el resumen con cuatro cifras; debajo, los paneles agrupados en tres bloques con su título
+    res = [' '.join(t.split()) for t in a.locator('#view .log-res .sier-kpi').all_inner_texts()]
+    assert [r.split(' ')[0] for r in res] == ['Personal', 'Material', 'Vehículos', 'Pendiente'] and res[0] == f'Personal {total}/{total}', res
+    assert a.locator('#view .log-sec-t h2').all_inner_texts() == ['Personal', 'Vehículos y almacén', 'Material']
+    assert a.locator('#log-personal .panel h3').all_inner_texts()[:2] == ['Presentes', 'Capacidades'] and 'Pasillos del almacén' in a.locator('#log-flota .panel h3').all_inner_texts()
+    a.click('#view .log-res .sier-kpi:has-text("Vehículos")'); a.wait_for_timeout(200)
+    assert a.evaluate("document.getElementById('log-flota').getBoundingClientRect().top") < 200, 'el resumen lleva a su bloque'
+    a.evaluate("scrollTo(0, 0)")
     seen('logística'); wide('logística')
 
     # Pasar lista: se toca a quien falta (con su motivo) y vuelve a tocarse para marcarlo presente
@@ -75,7 +91,7 @@ with sync_playwright() as p:
     a.click('#listaBody button:has-text("Hecho")'); a.wait_for_timeout(250)
 
     # Logística con dos ausentes: totales, pelotones, capacidades (falta un motosierrista titular) y la lista de ausentes
-    per = ' '.join(panel('Personal').split()); assert f'{total - 2} de {total} presentes hoy' in per and 'PIEN 1 1/2' in per and 'PIEN 2 1/2' in per and 'PLMSecc 2/2' in per, per
+    per = ' '.join(panel('Presentes').split()); assert f'{total - 2} de {total} presentes hoy' in per and 'PIEN 1 1/2' in per and 'PIEN 2 1/2' in per and 'PLMSecc 2/2' in per, per
     assert 'CBO 1º CUERDAS' in per and 'Baja médica' in per and 'SDO BUZO' in per and 'Curso' in per, per
     caps = ' '.join(panel('Capacidades').split())
     for x in ['Res. Terrestre 1/2', 'Res. Acuático 1/2', 'SVA 1/2', 'Motosierristas + 1 de 1 suplentes 0/2', 'USAR 13/13']: assert x in caps, (x, caps)
@@ -87,7 +103,7 @@ with sync_playwright() as p:
     cur = ' '.join(a.inner_text('.pers-panel:has(h3:text-is("Curso"))').split()); assert 'BUZO' in cur and 'Academia de Logística' in cur and 'sin fecha de vuelta' in cur, cur
     assert 'en Academia de Logística' in a.evaluate("sierParte()")
     a.evaluate("setPref({ pview: 'peloton' }); go('recursos')"); a.wait_for_timeout(200)
-    assert 'Academia de Logística' in panel('Personal')
+    assert 'Academia de Logística' in panel('Presentes')
     # El parte sale con los ausentes
     parte = a.evaluate("sierParte()"); assert 'CUERDAS' in parte and 'Baja médica' in parte and f'Presentes: *{total - 2}*' in parte, parte
 
@@ -100,7 +116,7 @@ with sync_playwright() as p:
     a.fill('#view input[type=date]', dia(4)); a.dispatch_event('#view input[type=date]', 'change'); a.wait_for_timeout(200)
     assert a.evaluate("prefs.logDia") == dia(4) and a.locator('#view button:has-text("Pasar lista")').count() == 0, 'la lista solo se pasa hoy'
     caps = ' '.join(panel('Capacidades').split()); assert 'RPAS 0/1' in caps and 'Res. Acuático 2/2' in caps and 'Res. Terrestre 1/2' in caps, caps
-    per = ' '.join(panel('Personal').split()); assert f'{total - 2} de {total} presentes' in per and 'CBO PILOTO' in per and 'BUZO' not in per, per
+    per = ' '.join(panel('Presentes').split()); assert f'{total - 2} de {total} presentes' in per and 'CBO PILOTO' in per and 'BUZO' not in per, per
     seen('logística otro día'); wide('logística otro día'); a.screenshot(path=f'{OUT}/logistica-dia.png', full_page=True)
     a.click('#view button:has-text("Hoy")'); a.wait_for_timeout(150); assert a.evaluate("prefs.logDia") == ''
     # En la ficha: la ausencia prevista se ve y se anula

diff --git a/tests/test_almacen.py b/tests/test_almacen.py
@@ -28,6 +28,12 @@ with sync_playwright() as p:
     chips = [' '.join(t.split()) for t in a.locator('#view .pas-chips .chip').all_inner_texts()]
     assert chips == ['1 Parque', '2 Parque', '3 USAR', '4 Agua', '5 Cuerdas', '6 Motosierras'], chips
     assert a.inner_text('#view .alm-rack h3') == 'Pasillo 1 · izquierda' and a.locator('#view .px .px-cell').count() == 4 * 3
+    # Es un plano: cada pasillo con su estantería a izquierda y derecha, llena hasta donde esté ocupada (2 huecos de 12 → 17 %)
+    assert a.locator('#view .plano .plano-p').count() == 6 and a.locator('#view .plano .plano-e').count() == 12
+    a.evaluate("(() => { const m = apMat('parque'); matPoner(m[0].id, pasDoor(1, 'D', 1, 0)); matPoner(m[1].id, pasDoor(1, 'D', 2, 1)); matPoner(m[2].id, pasDoor(1, 'D', 2, 1)); })()"); a.wait_for_timeout(150)
+    assert a.evaluate("[...document.querySelectorAll('#view .plano-p')[0].querySelectorAll('.plano-e i')].map(i => i.style.height)") == ['0%', '17%'] and a.evaluate("pasOcupa(pasIndice(), 1, 'D')") == 2 / 12
+    assert ' '.join(a.inner_text('#view .plano-p >> nth=0').split()) == '1 Parque 3'
+    a.evaluate("apMat('parque').forEach(m => matPoner(m.id, 0))"); a.wait_for_timeout(150)
     a.click('#view .pas-chips .chip:has-text("USAR")'); a.wait_for_timeout(150)
     assert a.locator('#view .px .px-cell').count() == 5 * 2, 'el pasillo de USAR: 5 módulos, suelo y una balda'
     # La página de USAR ya no tiene pasillo: solo un enlace que trae aquí

diff --git a/CLAUDE.md b/CLAUDE.md
@@ -45,6 +45,10 @@
 - Movimiento y acabados: bloque «ACABADOS» al final de `styles.css` (respuesta al toque, indicadores que se deslizan,
   barras que crecen, destello del hueco de destino, asa de las ventanas). Las animaciones solo corren con `html.motion`
   (`motion()` en `js/ui.js`: nunca con movimiento reducido ni en las pruebas). Sin degradados, cristal ni sombras en reposo.
+- Ver cómo está todo de un vistazo (bloque «ORGANIZACIÓN» al final de `styles.css`): Inicio lleva una tabla con una fila
+  por especialidad y cuatro datos alineados (gente, material, revista y lo que falta; `espTiles` en `js/ui.js`), con color
+  solo en lo que hay que atender; Logística, un resumen de cuatro cifras que lleva a sus tres bloques (Personal, Vehículos
+  y almacén, Material); y el Almacén, un plano de los pasillos con lo llena que está cada estantería (`pasSelector`).
 - Necesidades (`js/views/necesidades.js`, registros `needs`): lo que falta o hay que pedir, por apartado, USAR, vehículos
   o general; pestaña en cada apartado y panel en Logística.
 - Situación del personal: cada persona está «En base» o ausente con motivo, lugar y fechas (`aus`); se ve en Personal →
